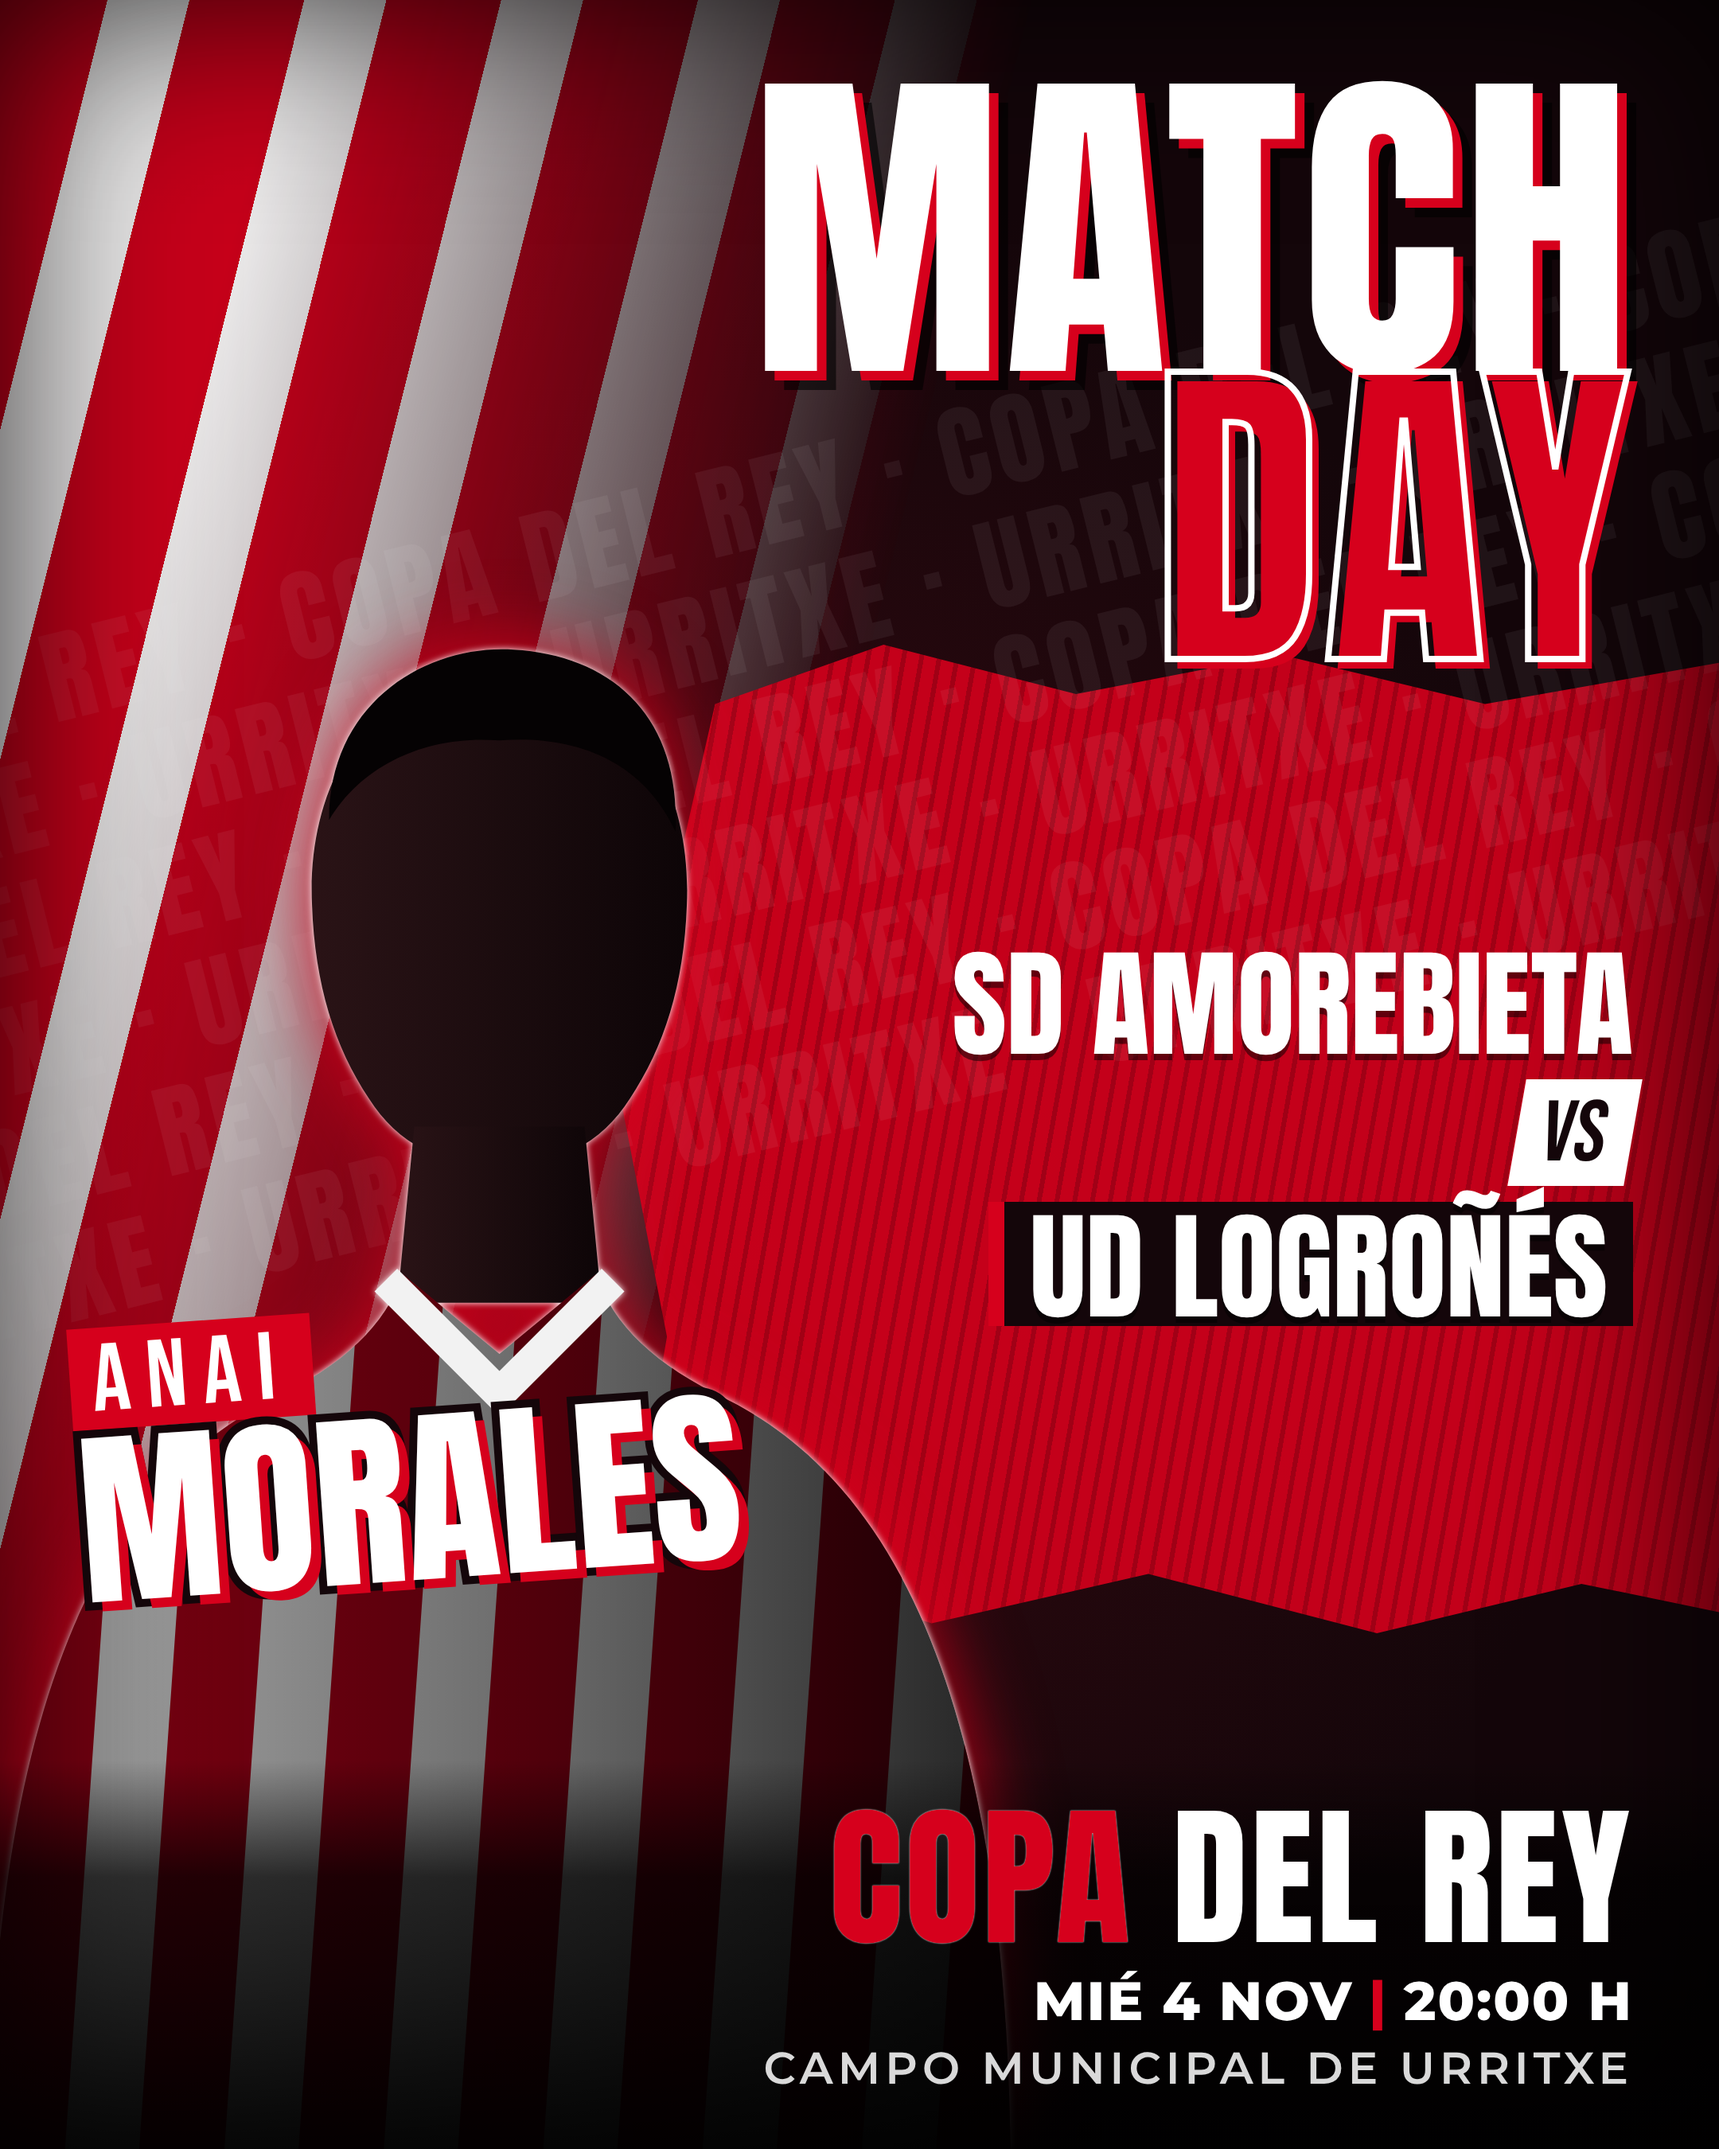
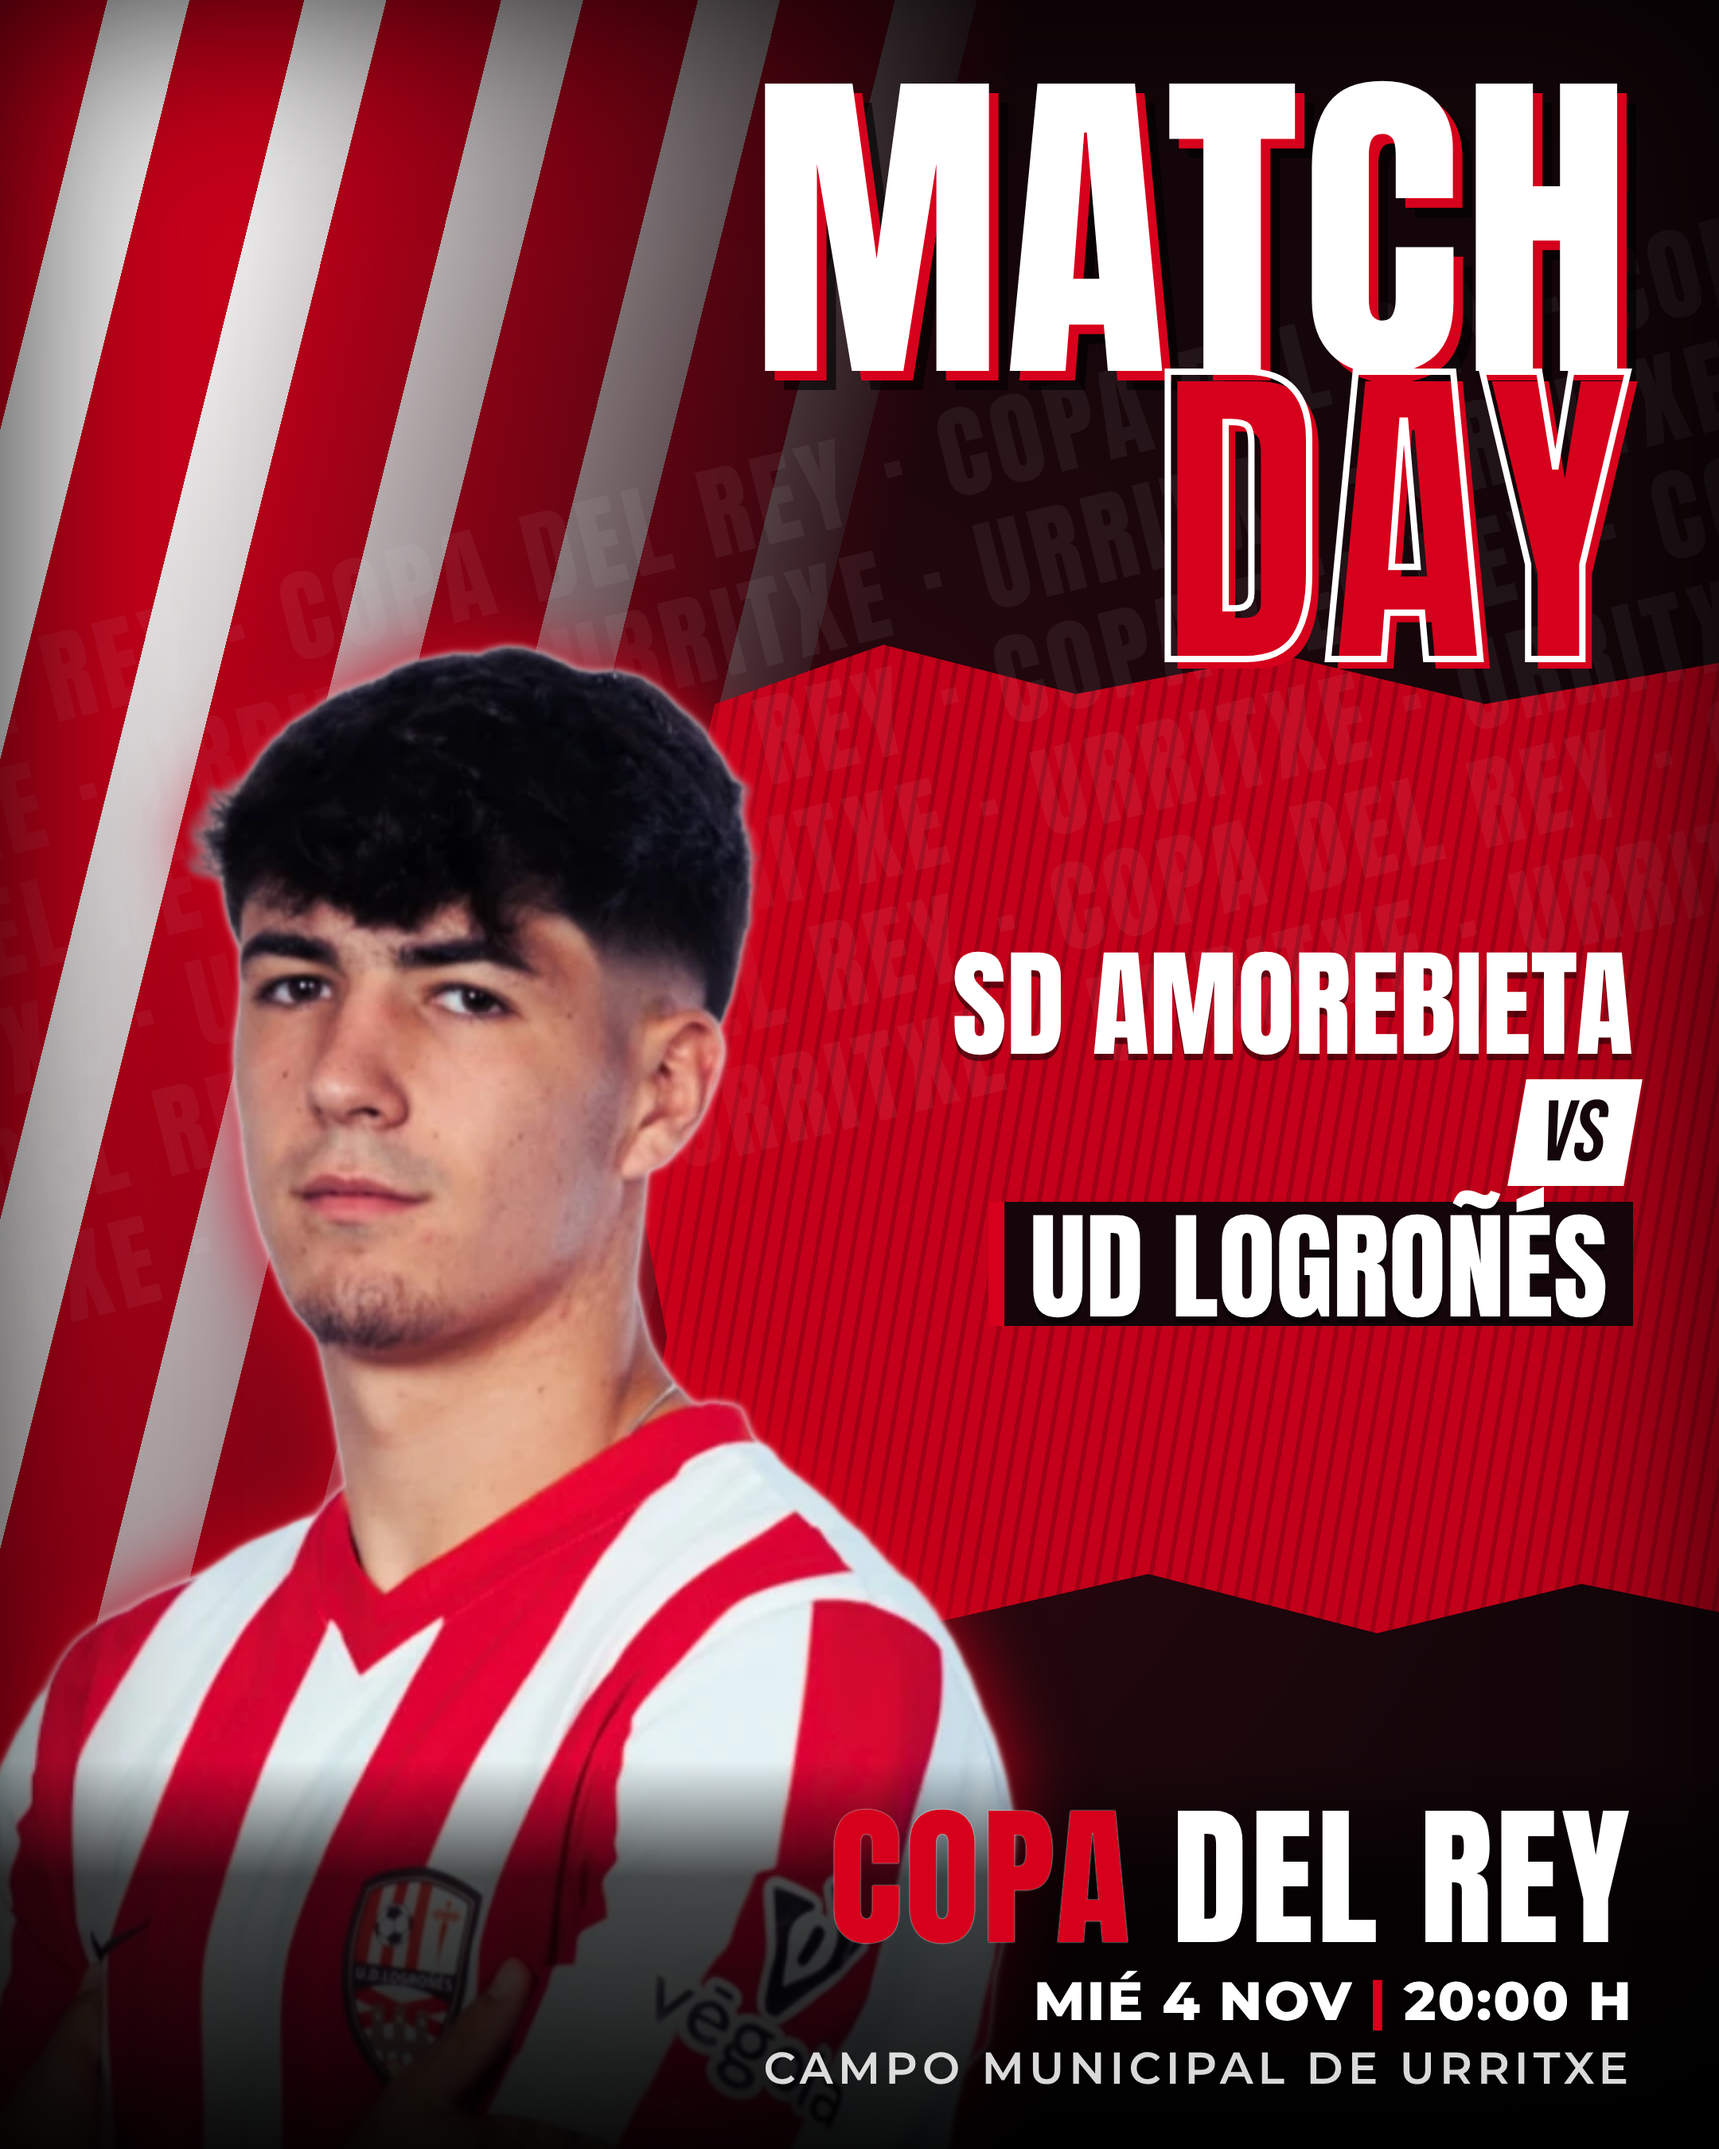
Match Day Logroñés: poner la foto de Anai Morales en lugar de la silueta
Claude-Session: https://claude.ai/code/session_01Q54DXVH7GopsR3mpjPBNRA

Changed region(s): [[0.0, 0.28, 0.6204, 0.9644]]

diff --git a/miniaturero/salida/2026-11-01_matchday-logrones/proyecto/matchday.html b/miniaturero/salida/2026-11-01_matchday-logrones/proyecto/matchday.html
@@ -10,7 +10,7 @@
     --rojo-osc: #7a0010;
     --blanco: #ffffff;
     --fondo: #14060a;
-    --jugador-alto: 74%;   /* tamaño del jugador respecto al alto del póster */
+    --jugador-alto: 70%;   /* tamaño del jugador respecto al alto del póster */
   }
   @font-face { font-family: "Anton"; src: url("fonts/Anton-Regular.ttf"); }
   @font-face { font-family: "Bebas"; src: url("fonts/BebasNeue-Regular.ttf"); }
@@ -37,8 +37,8 @@
 
   .vineta { position: absolute; inset: 0; box-shadow: inset 0 0 220px rgba(0,0,0,.85); pointer-events: none; }
 
-  /* jugador (silueta provisional: sustituir por img/jugador.png recortado) */
-  .jugador { position: absolute; bottom: 0; left: -4%; height: var(--jugador-alto);
+  /* jugador recortado */
+  .jugador { position: absolute; bottom: 0; left: -7%; height: var(--jugador-alto);
     filter: drop-shadow(0 0 2px #fff) drop-shadow(0 0 24px rgba(214,0,28,.9)); }
 
   .titulo { position: absolute; right: 5%; top: 4%; text-align: right; color: var(--blanco);
@@ -62,7 +62,7 @@
   .pie .campo { font-family: "Montserrat"; font-weight: 600; font-size: 28px; letter-spacing: 3px; opacity: .85; margin-top: 4px; text-transform: uppercase; }
 
   /* nombre del jugador, sobre el pecho de la silueta, a la izquierda */
-  .nombre { position: absolute; left: 5%; bottom: 25%; color: var(--blanco); transform: rotate(-4deg); transform-origin: left bottom; }
+  .nombre { position: absolute; left: 4%; bottom: 4%; color: var(--blanco); transform: rotate(-4deg); transform-origin: left bottom; }
   .nombre span { display: block; }
   .nombre .pila { font-family: "Bebas"; font-size: 60px; letter-spacing: 10px; line-height: 1;
     background: var(--rojo); display: inline-block; padding: 4px 14px 0 14px; }
@@ -73,7 +73,8 @@
   @media (min-aspect-ratio: 0/1) and (max-aspect-ratio: 10/16) {
     .titulo { top: 6%; font-size: 240px; }
     .equipos { top: 40%; }
-    .jugador { height: 70%; }
+    .jugador { height: 62%; }
+    .nombre { bottom: 9%; }
     .pie { padding-bottom: 120px; }   /* margen para la interfaz de stories */
     .mancha { top: 34%; height: 36%; }
   }
@@ -85,31 +86,11 @@
   <div class="mancha"></div>
   <div class="eco">COPA DEL REY · COPA DEL REY · COPA DEL REY · COPA DEL REY<br>· URRITXE · URRITXE · URRITXE · URRITXE · URRITXE ·<br>COPA DEL REY · COPA DEL REY · COPA DEL REY · COPA DEL REY<br>· URRITXE · URRITXE · URRITXE · URRITXE · URRITXE ·<br>COPA DEL REY · COPA DEL REY · COPA DEL REY · COPA DEL REY<br>· URRITXE · URRITXE · URRITXE · URRITXE · URRITXE ·</div>
 
-  <!-- SILUETA PROVISIONAL. Para poner al jugador: <img class="jugador" src="img/jugador.png"> -->
-  <svg class="jugador" viewBox="0 0 400 560" xmlns="http://www.w3.org/2000/svg">
-    <defs>
-      <pattern id="rayas" width="56" height="10" patternUnits="userSpaceOnUse" patternTransform="rotate(4)">
-        <rect width="30" height="10" fill="#b00018"/><rect x="30" width="26" height="10" fill="#e8e8e8"/>
-      </pattern>
-      <linearGradient id="sombra" x1="0" x2="1" y1="0" y2="0">
-        <stop offset="0" stop-color="#000" stop-opacity=".25"/><stop offset=".55" stop-color="#000" stop-opacity=".55"/><stop offset="1" stop-color="#000" stop-opacity=".85"/>
-      </linearGradient>
-      <linearGradient id="piel" x1="0" x2="1"><stop offset="0" stop-color="#2a1316"/><stop offset="1" stop-color="#0d0507"/></linearGradient>
-    </defs>
-    <!-- cabeza y cuello -->
-    <path d="M200 40 C 245 40 268 78 266 122 C 265 150 258 172 246 190 C 236 206 220 214 200 214 C 180 214 164 206 154 190 C 142 172 135 150 134 122 C 132 78 155 40 200 40 Z" fill="url(#piel)"/>
-    <path d="M140 92 C 140 50 175 30 205 32 C 240 34 264 56 262 96 C 250 70 225 62 200 64 C 175 62 152 72 140 92 Z" fill="#050203"/>
-    <path d="M170 200 L 230 200 L 236 262 L 164 262 Z" fill="url(#piel)"/>
-    <!-- torso con camiseta rojiblanca -->
-    <path id="torso" d="M20 560 C 22 420 52 330 120 296 C 145 284 160 270 166 252 L 200 280 L 234 252 C 240 270 255 284 280 296 C 348 330 378 420 380 560 Z" fill="url(#rayas)"/>
-    <path d="M20 560 C 22 420 52 330 120 296 C 145 284 160 270 166 252 L 200 280 L 234 252 C 240 270 255 284 280 296 C 348 330 378 420 380 560 Z" fill="url(#sombra)"/>
-    <!-- cuello de la camiseta -->
-    <path d="M164 250 L 200 286 L 236 250 L 244 258 L 200 302 L 156 258 Z" fill="#f2f2f2"/>
-  </svg>
+  <!-- Jugador: Anai Morales, recortado de la foto aportada por el usuario (entrada/anai_morales.webp) -->
+  <img class="jugador" src="img/jugador.png" alt="Anai Morales">
 
   <div class="vineta"></div>
 
-  <div class="nombre"><span class="pila">ANAI</span><span class="apellido">MORALES</span></div>
 
   <div class="titulo"><span>MATCH</span><span class="hueco">DAY</span></div>
 

diff --git a/miniaturero/salida/2026-11-01_matchday-logrones/notas.md b/miniaturero/salida/2026-11-01_matchday-logrones/notas.md
@@ -4,8 +4,9 @@
 - **Referencia:** póster "Match Day" de un club (solo como inspiración de composición: jugador a la izquierda, "MATCH DAY" grande arriba a la derecha, franjas en diagonal, texto repetido de fondo, competición abajo). No se ha copiado ningún elemento.
 - **Colores:** rojo #d6001c, blanco y fondo casi negro #14060a.
 - **Fuentes:** Anton y Bebas Neue (titulares), Montserrat (datos). Todas con licencia SIL OFL.
-- **Jugador:** Anai Morales (nombre en el póster). **Silueta provisional dibujada con código**. No se usa la foto de ningún jugador real sin permiso. Para ponerlo: deja la foto en `entrada/` → `mini.py recortar` → `proyecto/img/jugador.png` → sustituir el `<svg class="jugador">` por `<img class="jugador" src="img/jugador.png">`.
-- **Escudos:** no se han puesto (derechos de los clubes). Se añaden si los aportas y confirmas que puedes usarlos.
+- **Jugador:** Anai Morales (UD Logroñés). Foto aportada por el usuario (`entrada/anai_morales.webp`, gráfico del club), recortada con BiRefNet → `proyecto/img/jugador.png`. Solo se usa el jugador (sin el texto, el estadio ni el escudo del gráfico). El escudo y el patrocinador de la camiseta vienen en la propia foto.
+- **Escudos:** no se han añadido aparte. Se pueden añadir si los aportas y confirmas que puedes usarlos.
+- **Revisión:** 1) el nombre del jugador abajo quedaba apagado y competía con "COPA DEL REY" → eliminado (pediste solo al jugador). 2) OK.
 
 ## Archivos
 - `matchday_4x5.png` (2160×2700, feed de Instagram) y `matchday_9x16.png` (2160×3840, stories; margen abajo para la interfaz).
